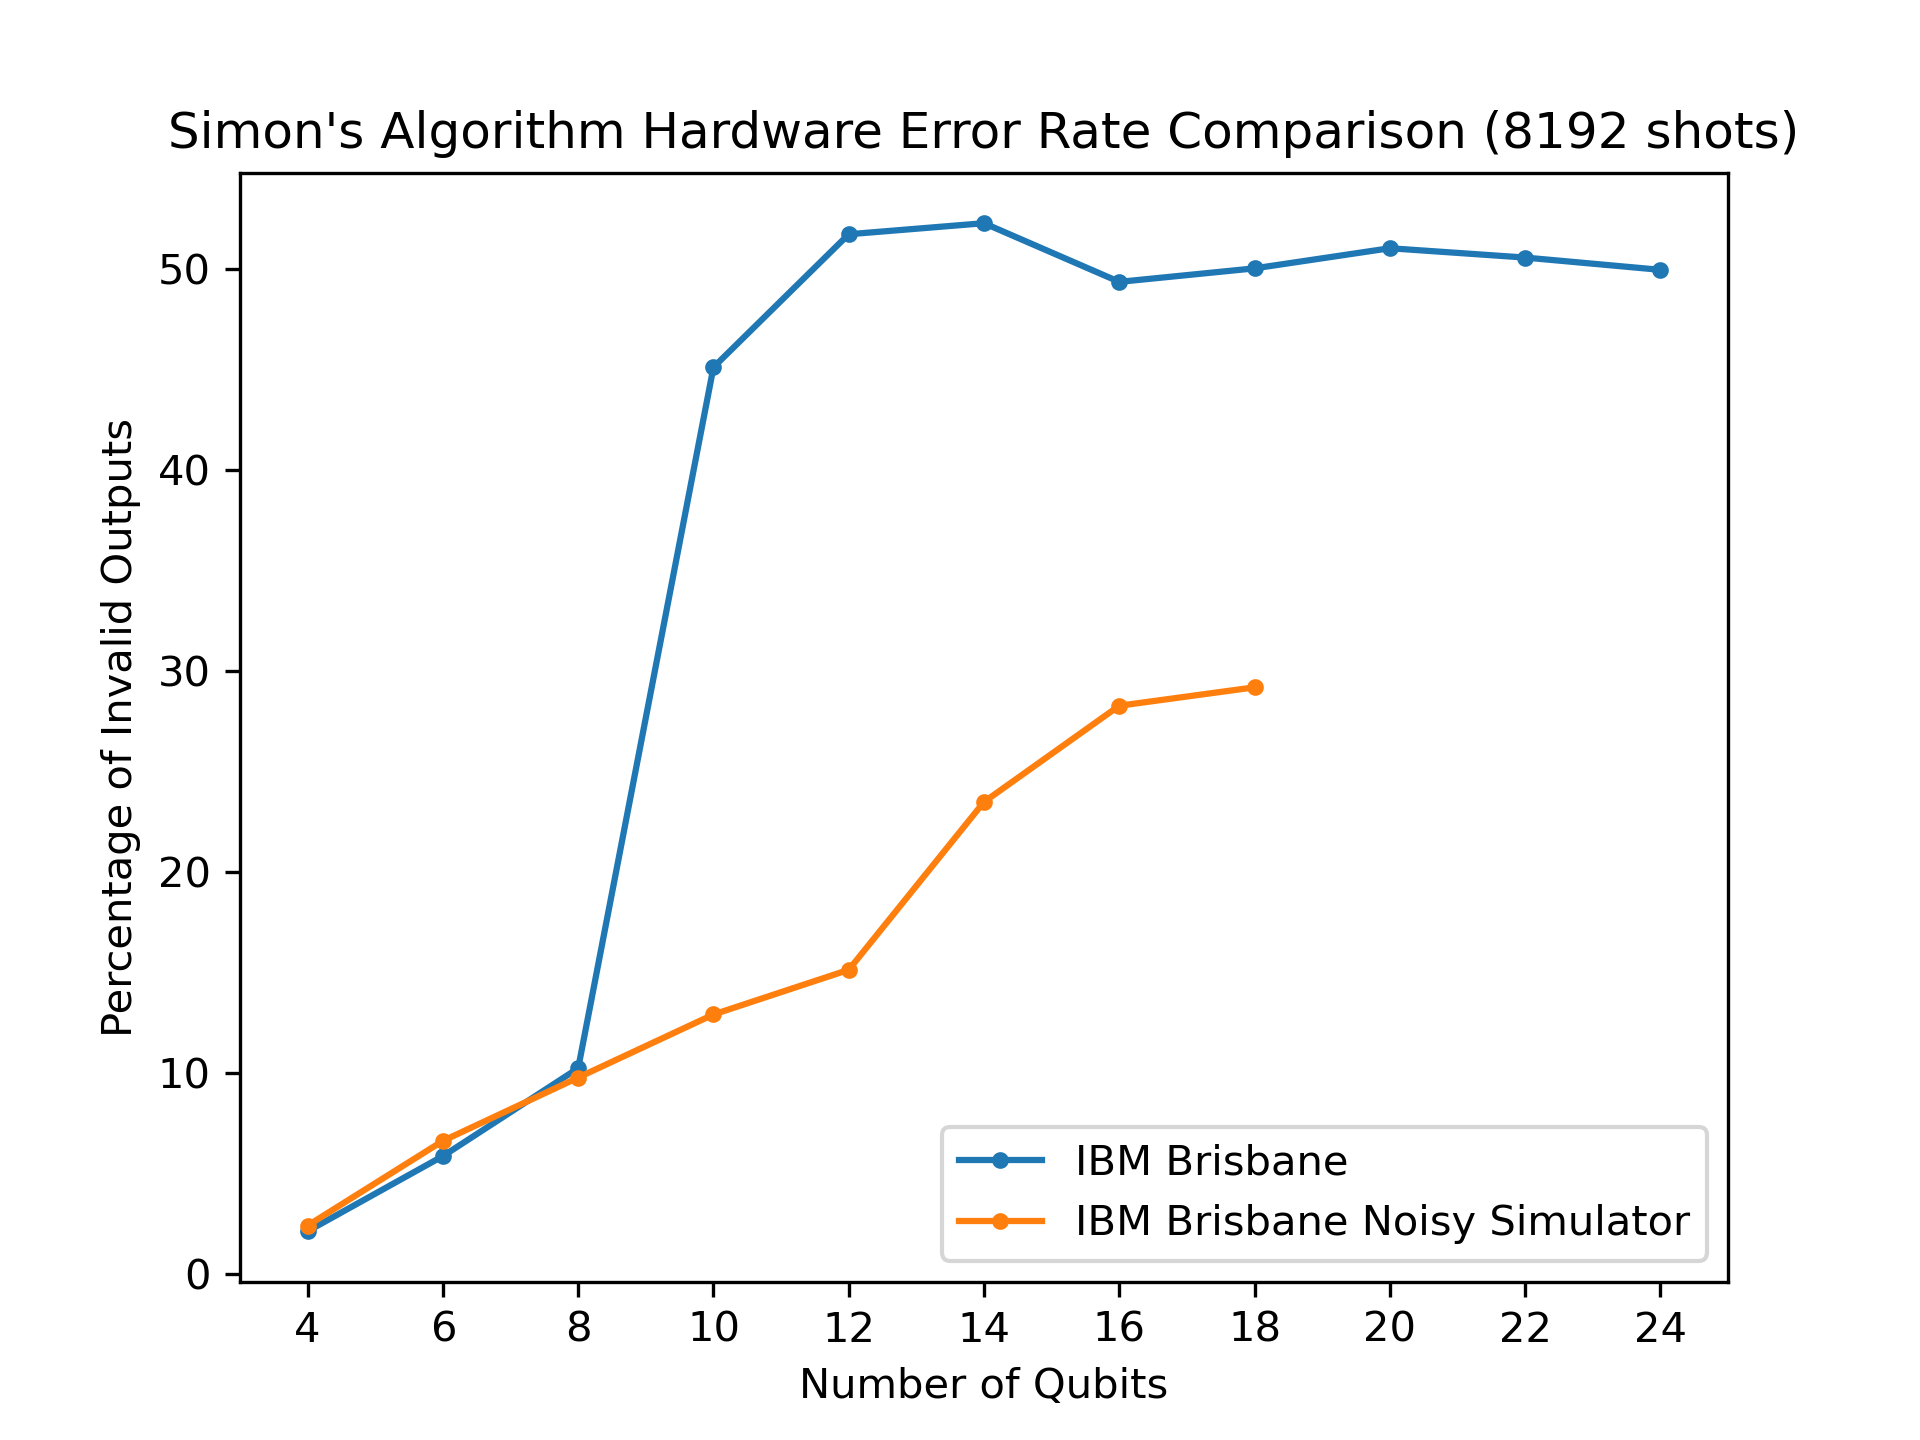
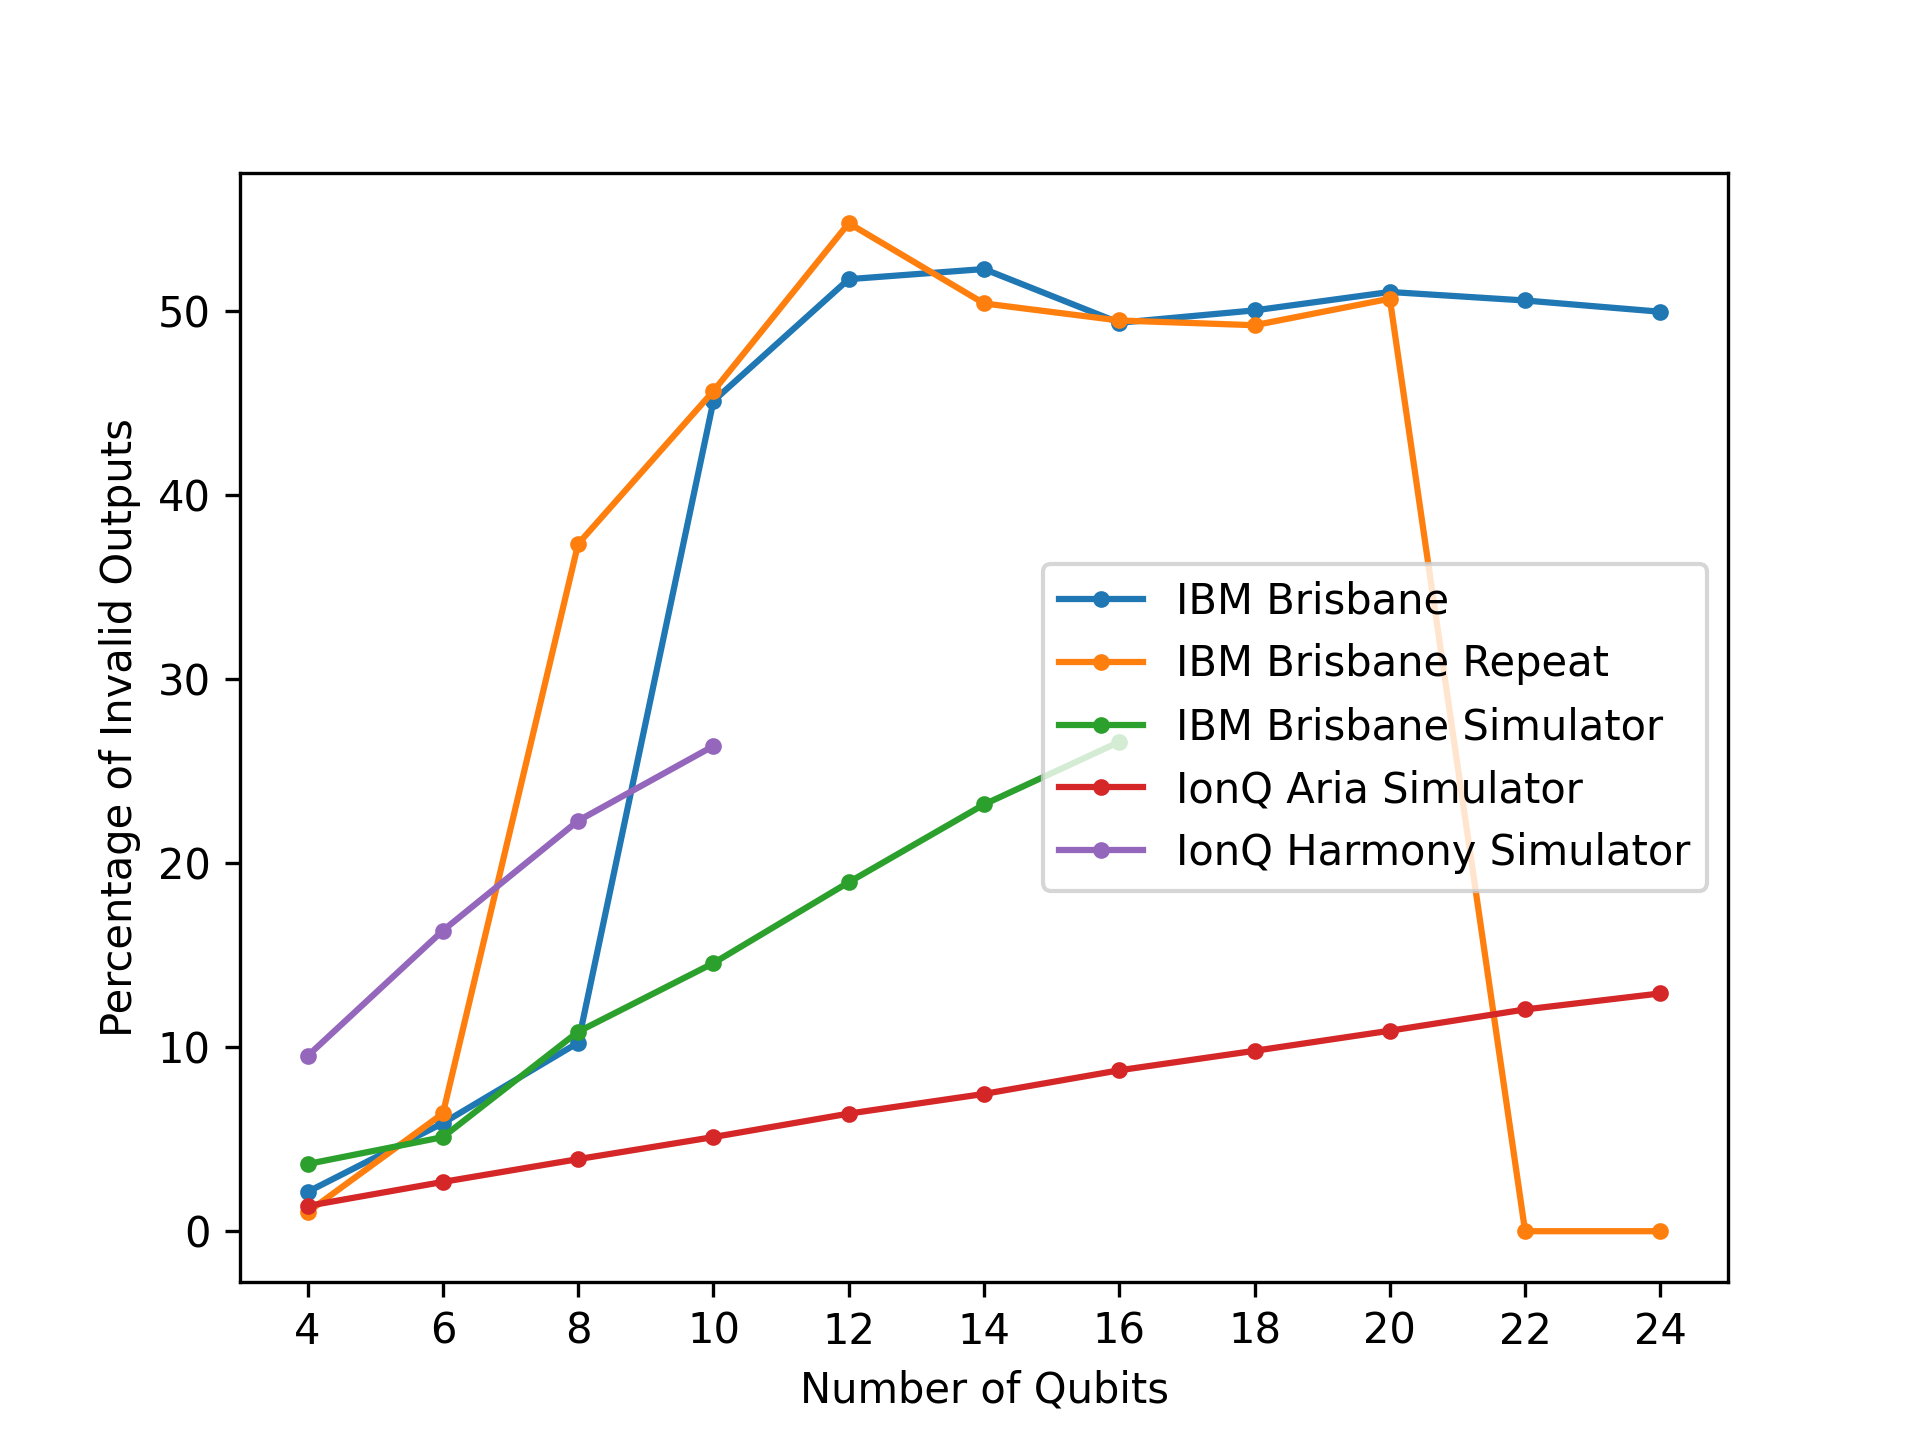
Updated experiments and plots.

diff --git a/HardwareComparison/plotting.py b/HardwareComparison/plotting.py
@@ -1,0 +1,196 @@
+import os
+import ast
+import numpy as np
+from matplotlib import pyplot as plt
+
+brisbaneDir = 'IBMBrisbane'
+brisbaneDir2 = 'IBMBrisbane2'
+brisbaneSimDir = 'IBMBrisbaneSimulator'
+ariaSimDir = 'IonQAriaSimulator'
+harmonySimDir = 'IonQHarmonySimulator'
+shots = 8192
+brisbaneRepetitions = 10
+ionqRepetitions = 30
+
+brisbaneError = np.zeros(11)
+brisbaneError2 = np.zeros(11)
+brisbaneSimError = np.zeros(11)
+ariaSimError = np.zeros(11)
+harmonySimError = np.zeros(11)
+qubitCounts = np.arange(4, 25, 2)
+
+for filename in os.listdir(brisbaneDir):
+
+    numQubits = int(filename[6:-4])
+    secretKey = '1' * numQubits
+
+    file = os.path.join(brisbaneDir, filename)
+    with open(file, 'r') as fin:
+        data = fin.read()
+
+    data = data.replace('\n', '').replace('\t', '')[1:-1]
+    dataDict = ast.literal_eval(data)
+
+    for key in dataDict:
+        assert len(key) == 2*numQubits
+        break
+
+    probDict = dict()
+    probSum = 0
+
+    for key, value in dataDict.items():
+        if value < 0:
+            probDict[key] = 0
+        else:
+            probDict[key] = value
+            probSum += value
+
+    countsDict = dict()
+    countsSum = 0
+
+    for key, value in probDict.items():
+        count = round((value / probSum) * shots)
+        countsDict[key] = count
+        countsSum += count
+
+    errorCount = 0
+
+    for key, value in countsDict.items():
+        actualKey = key[::-1][:numQubits]
+        isOrthogonal = (sum([int(actualKey[i]) * int(secretKey[i]) for i in range(numQubits)]) % 2) == 0
+        if not isOrthogonal:
+            errorCount += value
+
+    brisbaneError[int(numQubits) - 2] = errorCount/shots
+
+for filename in os.listdir(brisbaneDir2):
+
+    numQubits = int(filename[6:-4])
+    secretKey = '1' * numQubits
+
+    file = os.path.join(brisbaneDir2, filename)
+    with open(file, 'r') as fin:
+        data = fin.read()
+
+    data = data.replace('\n', '').replace('\t', '')[1:-1]
+    dataDict = ast.literal_eval(data)
+
+    for key in dataDict:
+        assert len(key) == 2*numQubits
+        break
+
+    probDict = dict()
+    probSum = 0
+
+    for key, value in dataDict.items():
+        if value < 0:
+            probDict[key] = 0
+        else:
+            probDict[key] = value
+            probSum += value
+
+    countsDict = dict()
+    countsSum = 0
+
+    for key, value in probDict.items():
+        count = round((value / probSum) * shots)
+        countsDict[key] = count
+        countsSum += count
+
+    errorCount = 0
+
+    for key, value in countsDict.items():
+        actualKey = key[::-1][:numQubits]
+        isOrthogonal = (sum([int(actualKey[i]) * int(secretKey[i]) for i in range(numQubits)]) % 2) == 0
+        if not isOrthogonal:
+            errorCount += value
+
+    brisbaneError2[int(numQubits) - 2] = errorCount/shots
+
+for filename in os.listdir(brisbaneSimDir):
+
+    optimization = int(filename[filename.find('l')+1:filename.find('i')])
+    if optimization == 2:
+        numQubits = int(filename[1:filename.find('l')])
+        secretKey = '1' * numQubits
+
+        file = os.path.join(brisbaneSimDir, filename)
+        with open(file, 'r') as fin:
+            data = fin.read()
+
+        countsDict = ast.literal_eval(data)
+
+        errorCount = 0
+
+        for key, value in countsDict.items():
+            actualKey = key[::-1][:numQubits]
+            isOrthogonal = (sum([int(actualKey[i]) * int(secretKey[i]) for i in range(numQubits)]) % 2) == 0
+            if not isOrthogonal:
+                errorCount += value
+
+        brisbaneSimError[int(numQubits) - 2] += errorCount
+
+brisbaneSimError /= (shots * brisbaneRepetitions)
+
+for filename in os.listdir(ariaSimDir):
+
+    mitigation = int(filename[-7])
+    sharpening = int(filename[-5])
+    if mitigation == 0 and sharpening == 0:
+        numQubits = int(filename[1:filename.find('i')])
+        secretKey = '1' * numQubits
+
+        file = os.path.join(ariaSimDir, filename)
+        with open(file, 'r') as fin:
+            data = fin.read()
+
+        countsDict = ast.literal_eval(data)
+
+        errorCount = 0
+
+        for key, value in countsDict.items():
+            actualKey = key[numQubits:]
+            isOrthogonal = (sum([int(actualKey[i]) * int(secretKey[i]) for i in range(numQubits)]) % 2) == 0
+            if not isOrthogonal:
+                errorCount += value
+
+        ariaSimError[int(numQubits) - 2] += errorCount
+
+ariaSimError /= (shots * ionqRepetitions)
+
+for filename in os.listdir(harmonySimDir):
+
+    mitigation = int(filename[-7])
+    sharpening = int(filename[-5])
+    if mitigation == 0 and sharpening == 0:
+        numQubits = int(filename[1:filename.find('i')])
+        secretKey = '1' * numQubits
+
+        file = os.path.join(harmonySimDir, filename)
+        with open(file, 'r') as fin:
+            data = fin.read()
+
+        countsDict = ast.literal_eval(data)
+
+        errorCount = 0
+
+        for key, value in countsDict.items():
+            actualKey = key[numQubits:]
+            isOrthogonal = (sum([int(actualKey[i]) * int(secretKey[i]) for i in range(numQubits)]) % 2) == 0
+            if not isOrthogonal:
+                errorCount += value
+
+        harmonySimError[int(numQubits) - 2] += errorCount
+
+harmonySimError /= (shots * ionqRepetitions)
+
+plt.plot(qubitCounts, brisbaneError*100, '.-', label='IBM Brisbane')
+plt.plot(qubitCounts, brisbaneError2*100, '.-', label='IBM Brisbane Repeat')
+plt.plot(qubitCounts[:7], brisbaneSimError[:7]*100, '.-', label='IBM Brisbane Simulator')
+plt.plot(qubitCounts, ariaSimError*100, '.-', label='IonQ Aria Simulator')
+plt.plot(qubitCounts[:4], harmonySimError[:4]*100, '.-', label='IonQ Harmony Simulator')
+plt.xticks(qubitCounts)
+plt.xlabel('Number of Qubits')
+plt.ylabel('Percentage of Invalid Outputs')
+plt.legend(loc='best')
+plt.savefig('errorComparison.png', dpi=300)

diff --git a/HardwareComparison/brisbanePreprocessing.py b/HardwareComparison/brisbanePreprocessing.py
@@ -6,9 +6,13 @@ from matplotlib import pyplot as plt
 brisbaneDir = 'IBMBrisbane'
 brisbaneSimDir = 'IBMBrisbaneSimulator'
 shots = 8192
+repetitions = 10
 
 brisbaneError = np.zeros(11)
-brisbaneSimError = np.zeros(11)
+brisbaneSimError0 = np.zeros(11)
+brisbaneSimError1 = np.zeros(11)
+brisbaneSimError2 = np.zeros(11)
+brisbaneSimError3 = np.zeros(11)
 qubitCounts = np.arange(4, 25, 2)
 
 for filename in os.listdir(brisbaneDir):
@@ -57,7 +61,8 @@ for filename in os.listdir(brisbaneDir):
 
 for filename in os.listdir(brisbaneSimDir):
 
-    numQubits = int(filename[6:-4])
+    optimization = int(filename[filename.find('l')+1:filename.find('i')])
+    numQubits = int(filename[1:filename.find('l')])
     secretKey = '1' * numQubits
 
     file = os.path.join(brisbaneSimDir, filename)
@@ -74,13 +79,28 @@ for filename in os.listdir(brisbaneSimDir):
         if not isOrthogonal:
             errorCount += value
 
-    brisbaneSimError[int(numQubits) - 2] = errorCount/shots
+    if optimization == 0:
+        brisbaneSimError0[int(numQubits) - 2] += errorCount
+    if optimization == 1:
+        brisbaneSimError1[int(numQubits) - 2] += errorCount
+    if optimization == 2:
+        brisbaneSimError2[int(numQubits) - 2] += errorCount
+    if optimization == 3:
+        brisbaneSimError3[int(numQubits) - 2] += errorCount
 
-plt.plot(qubitCounts, brisbaneError*100, '.-', label='IBM Brisbane')
-plt.plot(qubitCounts[:8], brisbaneSimError[:8]*100, '.-', label='IBM Brisbane Noisy Simulator')
+brisbaneSimError0 /= (shots * repetitions)
+brisbaneSimError1 /= (shots * repetitions)
+brisbaneSimError2 /= (shots * repetitions)
+brisbaneSimError3 /= (shots * repetitions)
+
+plt.plot(qubitCounts, brisbaneError*100, '.-', label='Brisbane True Data')
+plt.plot(qubitCounts[:7], brisbaneSimError0[:7]*100, '.-', label='Brisbane Simulator Optimization 0')
+plt.plot(qubitCounts[:7], brisbaneSimError1[:7]*100, '.-', label='Brisbane Simulator Optimization 1')
+plt.plot(qubitCounts[:7], brisbaneSimError2[:7]*100, '.-', label='Brisbane Simulator Optimization 2')
+plt.plot(qubitCounts[:7], brisbaneSimError3[:7]*100, '.-', label='Brisbane Simulator Optimization 3')
 plt.xticks(qubitCounts)
 plt.xlabel('Number of Qubits')
 plt.ylabel('Percentage of Invalid Outputs')
 plt.legend(loc='best')
-plt.title('Simon\'s Algorithm Hardware Error Rate Comparison (8192 shots)')
-plt.savefig('errorComparison.png', dpi=300)
+plt.title('Simon\'s Algorithm IBM Error Rate Comparison (8192 shots)')
+plt.savefig('brisbaneError.png', dpi=300)

diff --git a/HardwareComparison/harmonyGeneration.py b/HardwareComparison/harmonyGeneration.py
@@ -9,18 +9,17 @@ from qiskit.providers.jobstatus import JobStatus
 warnings.filterwarnings("ignore")
 
 # Define the needed constants.
-N = 12
-ITER = 30
+N = 2
+ITER = 1
 SHOTS = 8192
 
 # Load the account with the provided API token.
-with open('../IonQ_API.txt', 'r') as file:
+with open('../IonQ_Paid_API.txt', 'r') as file:
     token = file.read()
 provider = IonQProvider(token)
 
 # Get the IonQ Aria1 noisy backend.
-backend = provider.get_backend('ionq_simulator')
-backend.set_options(noise_model='aria-1')
+backend = provider.get_backend('ionq_qpu.harmony')
 
 # For each iteration:
 for i in range(1, ITER+1):
@@ -58,36 +57,19 @@ for i in range(1, ITER+1):
         # Check if job is done.
         while job.status() is not JobStatus.DONE:
             print('\t\tJob status is', job.status() )
-            time.sleep(5)
+            time.sleep(1800)
 
         # When it is done, save the results with sharpening.
         print('\t\tJob status is', job.status())
         result = job.result(sharpen=True).get_counts()
         with open(
-            f'IonQAriaSimulator/n{n}i{i}e1s1.txt', 'w+'
+            f'IonQHarmony/n{n}i{i}s1.txt', 'w+'
         ) as file:
             file.write(str(result))
 
         # Also save the results without sharpening.
         result = job.result().get_counts()
         with open(
-            f'IonQAriaSimulator/n{n}i{i}e1s0.txt', 'w+'
-        ) as file:
-            file.write(str(result))
-
-        # Repeat the job submission without error mitigation (EM).
-        job = backend.run(transpiled_circuit, shots=SHOTS)
-        while job.status() is not JobStatus.DONE:
-            print('\t\tJob status is', job.status() )
-            time.sleep(5)
-        print('\t\tJob status is', job.status())
-        result = job.result(sharpen=True).get_counts()
-        with open(
-            f'IonQAriaSimulator/n{n}i{i}e0s1.txt', 'w+'
-        ) as file:
-            file.write(str(result))
-        result = job.result().get_counts()
-        with open(
-            f'IonQAriaSimulator/n{n}i{i}e0s0.txt', 'w+'
+            f'IonQHarmony/n{n}i{i}s0.txt', 'w+'
         ) as file:
             file.write(str(result))

diff --git a/HardwareComparison/harmonySimulatorGeneration.py b/HardwareComparison/harmonySimulatorGeneration.py
@@ -9,7 +9,7 @@ from qiskit.providers.jobstatus import JobStatus
 warnings.filterwarnings("ignore")
 
 # Define the needed constants.
-N = 12
+N = 5
 ITER = 30
 SHOTS = 8192
 
@@ -20,7 +20,7 @@ provider = IonQProvider(token)
 
 # Get the IonQ Aria1 noisy backend.
 backend = provider.get_backend('ionq_simulator')
-backend.set_options(noise_model='aria-1')
+backend.set_options(noise_model='harmony')
 
 # For each iteration:
 for i in range(1, ITER+1):
@@ -64,14 +64,14 @@ for i in range(1, ITER+1):
         print('\t\tJob status is', job.status())
         result = job.result(sharpen=True).get_counts()
         with open(
-            f'IonQAriaSimulator/n{n}i{i}e1s1.txt', 'w+'
+            f'IonQHarmonySimulator/n{n}i{i}e1s1.txt', 'w+'
         ) as file:
             file.write(str(result))
 
         # Also save the results without sharpening.
         result = job.result().get_counts()
         with open(
-            f'IonQAriaSimulator/n{n}i{i}e1s0.txt', 'w+'
+            f'IonQHarmonySimulator/n{n}i{i}e1s0.txt', 'w+'
         ) as file:
             file.write(str(result))
 
@@ -83,11 +83,11 @@ for i in range(1, ITER+1):
         print('\t\tJob status is', job.status())
         result = job.result(sharpen=True).get_counts()
         with open(
-            f'IonQAriaSimulator/n{n}i{i}e0s1.txt', 'w+'
+            f'IonQHarmonySimulator/n{n}i{i}e0s1.txt', 'w+'
         ) as file:
             file.write(str(result))
         result = job.result().get_counts()
         with open(
-            f'IonQAriaSimulator/n{n}i{i}e0s0.txt', 'w+'
+            f'IonQHarmonySimulator/n{n}i{i}e0s0.txt', 'w+'
         ) as file:
             file.write(str(result))

diff --git a/HardwareComparison/brisbaneSimulatorGeneration.py b/HardwareComparison/brisbaneSimulatorGeneration.py
@@ -17,7 +17,7 @@ provider = IBMQ.load_account()
 # For each iteration:
 for i in range(1, ITER+1):
     print(f'Iteration {i} of {ITER}:')
- 
+
     # Generate a noisy simulator with the latest calibration results.
     backend = provider.get_backend('ibm_brisbane')
     backend = AerSimulator.from_backend(backend)
